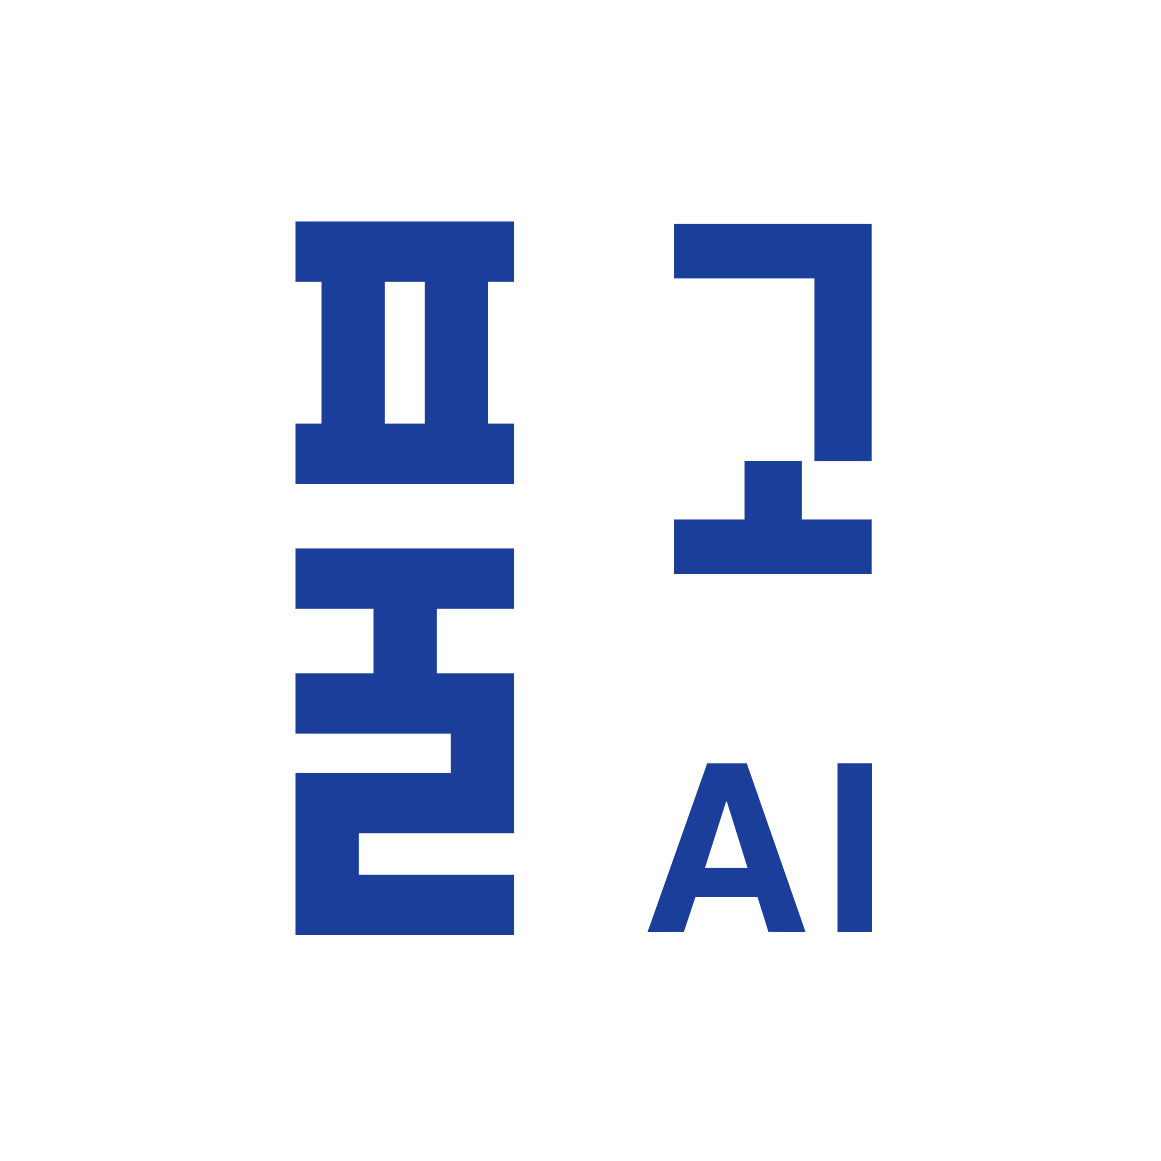
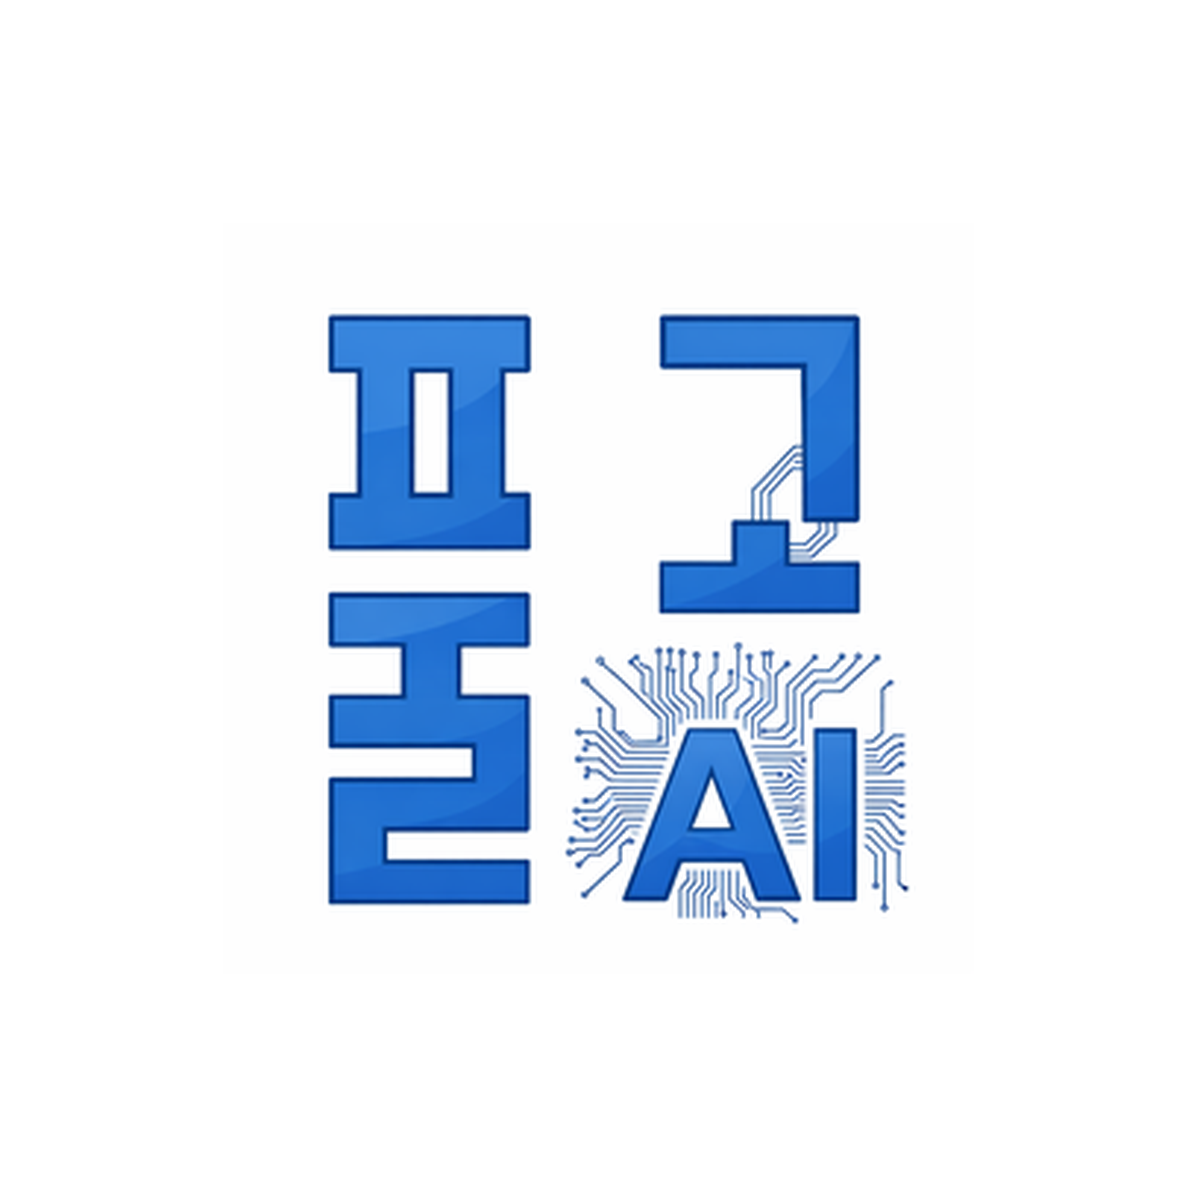
서비스 브랜드명 '풀고(Pool-go)'로 변경 및 로고/메타 애셋 전면 고도화

Changed region(s): [[0.2481, 0.186, 0.7752, 0.8062]]

diff --git a/index.html b/index.html
@@ -5,12 +5,12 @@
     <meta name="viewport" content="width=device-width, initial-scale=1.0" />
     <link rel="icon" type="image/png" href="/logo.png" />
     <link rel="apple-touch-icon" href="/apple-touch-icon.png" />
-    <title>루트 | 문제집 없이 시험 준비</title>
+    <title>풀고 | 문제집 없이 시험 준비</title>
     
     <!-- SEO & Social Sharing -->
     <meta name="description" content="중고등 내신 및 수능 대비 AI 문제은행 - 풀고 AI" />
     <meta property="og:type" content="website" />
-    <meta property="og:title" content="루트 | 문제집 없이 시험 준비" />
+    <meta property="og:title" content="풀고 | 문제집 없이 시험 준비" />
     <meta property="og:description" content="중고등 내신 및 수능 대비 AI 문제은행 - 풀고 AI" />
     <meta property="og:image" content="/og-image.png" />
     <meta property="og:image:width" content="1200" />
@@ -19,7 +19,7 @@
     
     <!-- Twitter -->
     <meta name="twitter:card" content="summary_large_image" />
-    <meta name="twitter:title" content="루트 | 문제집 없이 시험 준비" />
+    <meta name="twitter:title" content="풀고 | 문제집 없이 시험 준비" />
     <meta name="twitter:description" content="중고등 내신 및 수능 대비 AI 문제은행 - 풀고 AI" />
     <meta name="twitter:image" content="/og-image.png" />
   </head>

diff --git a/src/components/layout/TopBar.tsx b/src/components/layout/TopBar.tsx
@@ -36,11 +36,15 @@ export function TopBar({
 
             <button
               onClick={() => onNavigate('landing')}
-              className="group relative flex h-11 w-11 items-center justify-center overflow-hidden rounded-2xl transition-all active:scale-95"
+              className="group relative flex h-11 w-11 items-center justify-center overflow-hidden transition-all active:scale-95"
             >
-              <div className="absolute inset-0 bg-gradient-to-br from-blue-700 to-primary opacity-90 transition-all group-hover:scale-110 group-hover:opacity-100" />
-              <div className="absolute inset-0 shadow-[inset_0_1px_2px_rgba(255,255,255,0.4)]" />
-              <Bot className="relative h-6 w-6 text-white drop-shadow-[0_2px_4px_rgba(0,0,0,0.2)] transition-transform group-hover:rotate-6" />
+              <img 
+                src="/logo_ai.png" 
+                alt="풀고 AI 로고" 
+                className="h-10 w-10 object-contain transition-transform group-hover:scale-110"
+                loading="eager"
+                decoding="async"
+              />
             </button>
           </div>
 

diff --git a/src/components/auth/PasswordRecoveryScreen.tsx b/src/components/auth/PasswordRecoveryScreen.tsx
@@ -39,7 +39,7 @@ export function PasswordRecoveryScreen({ onDone }: { onDone: () => void }) {
   return (
     <main className="min-h-screen bg-slate-50 px-4 py-10 text-slate-900 sm:px-6">
       <div className="mx-auto max-w-xl border border-slate-200 bg-white px-6 py-8 sm:px-8">
-        <p className="text-xs font-semibold uppercase tracking-[0.18em] text-slate-400">ROOT</p>
+        <p className="text-xs font-semibold uppercase tracking-[0.18em] text-slate-400">풀고</p>
         <h1 className="mt-4 text-3xl font-bold">새 비밀번호 설정</h1>
         <p className="mt-3 text-sm leading-7 text-slate-600">
           메일의 재설정 링크로 들어온 상태입니다. 새 비밀번호를 저장한 뒤 계정 화면으로 돌아갑니다.

diff --git a/src/components/auth/AuthScreen.tsx b/src/components/auth/AuthScreen.tsx
@@ -172,7 +172,7 @@ export function AuthScreen({ onSuccess = () => window.location.reload() }: { onS
                 {mode === 'sign_in' 
                   ? '내 계정으로 로그인하여 학습 기록을 관리하세요.' 
                   : mode === 'sign_up' 
-                    ? 'ROOT CBT와 함께 지능형 학습을 시작하세요.'
+                    ? '풀고 AI와 함께 지능형 학습을 시작하세요.'
                     : '가입하신 이메일을 입력하시면 재설정 링크를 보내드립니다.'}
               </p>
             </div>

diff --git a/src/hooks/useExamSession.ts b/src/hooks/useExamSession.ts
@@ -30,7 +30,7 @@ export function useExamSession(
   onSyncWrong: (next: WrongNote[]) => void
 ) {
   const [questions, setQuestions] = useState<ExamQuestion[]>([]);
-  const [examTitle, setExamTitle] = useState('ROOT CBT');
+  const [examTitle, setExamTitle] = useState('풀고 AI');
   const [responses, setResponses] = useState<Record<number, string>>({});
   const [currentQuestionIndex, setCurrentQuestionIndex] = useState(1);
   const [generatedQuestionMode, setGeneratedQuestionMode] = useState<GeneratedQuestionMode>('mixed');

diff --git a/server/index.ts b/server/index.ts
@@ -109,5 +109,5 @@ app.post('/api/ai/segment-exam', async (req, res) => {
 });
 
 app.listen(port, '0.0.0.0', () => {
-  console.log(`ROOT API server listening on http://0.0.0.0:${port} (also accessible via http://127.0.0.1:${port})`);
+  console.log(`Pool-go API server listening on http://0.0.0.0:${port} (also accessible via http://127.0.0.1:${port})`);
 });

diff --git a/scratch/generate_meta_assets.py b/scratch/generate_meta_assets.py
@@ -1,0 +1,49 @@
+from PIL import Image
+import os
+
+# 경로 설정
+root_dir = r'c:\Users\dykim\OneDrive\바탕 화면\문서저장소\작업\ROOT'
+logo_ai_path = os.path.join(root_dir, 'public', 'logo_ai.png')
+
+def pad_and_save(input_path, output_path, canvas_size, padding_ratio=1.6):
+    try:
+        # 로고 불러오기
+        logo = Image.open(input_path)
+        
+        # 투명 배경인 경우 흰색 배경으로 합성 (SNS/아이콘용으로 더 안전함)
+        if logo.mode in ('RGBA', 'LA'):
+            background = Image.new('RGB', logo.size, (255, 255, 255))
+            background.paste(logo, mask=logo.split()[-1])
+            logo = background
+        else:
+            logo = logo.convert('RGB')
+
+        logo_w, logo_h = logo.size
+        
+        # 여백 포함 캔버스 크기 결정
+        current_canvas = int(max(logo_w, logo_h) * padding_ratio)
+        temp_canvas = Image.new('RGB', (current_canvas, current_canvas), (255, 255, 255))
+        
+        # 중앙 배치
+        offset = ((current_canvas - logo_w) // 2, (current_canvas - logo_h) // 2)
+        temp_canvas.paste(logo, offset)
+        
+        # 최종 사이즈로 리사이징
+        final_img = temp_canvas.resize((canvas_size, canvas_size), Image.Resampling.LANCZOS)
+        
+        # 저장
+        final_img.save(output_path, 'PNG', optimize=True)
+        print(f"Success: {output_path} ({canvas_size}x{canvas_size})")
+        
+    except Exception as e:
+        print(f"Error for {output_path}: {e}")
+
+if __name__ == "__main__":
+    # 1. Favicon용 (128x128, 적은 여백)
+    pad_and_save(logo_ai_path, os.path.join(root_dir, 'public', 'logo.png'), 128, padding_ratio=1.1)
+    
+    # 2. 애플 홈 화면 아이콘용 (180x180, 중간 여백)
+    pad_and_save(logo_ai_path, os.path.join(root_dir, 'public', 'apple-touch-icon.png'), 180, padding_ratio=1.2)
+    
+    # 3. SNS 공유용 (1200x1200px, 충분한 여백)
+    pad_and_save(logo_ai_path, os.path.join(root_dir, 'public', 'og-image.png'), 1200, padding_ratio=1.6)

diff --git a/scratch/optimize_logo.py b/scratch/optimize_logo.py
@@ -1,0 +1,40 @@
+from PIL import Image
+import os
+
+# 경로 설정
+input_path = r'C:\Users\dykim\.gemini\antigravity\brain\5a77a492-7a25-442a-bf07-56996101c706\media__1776155493401.png'
+output_path = r'c:\Users\dykim\OneDrive\바탕 화면\문서저장소\작업\ROOT\public\logo_ai.png'
+
+def optimize_logo(input_path, output_path, size=(256, 256)):
+    try:
+        if not os.path.exists(input_path):
+            print(f"Error: Input file not found at {input_path}")
+            return
+
+        # 이미지 열기
+        img = Image.open(input_path)
+        
+        # RGBA 환경 유지 (투명도)
+        if img.mode != 'RGBA':
+            img = img.convert('RGBA')
+            
+        # 리사이징 (LANCZOS 필터 사용으로 품질 최적화)
+        # Pillow 버전에 따라 Image.Resampling.LANCZOS 또는 Image.LANCZOS 사용
+        try:
+            resampling_filter = Image.Resampling.LANCZOS
+        except AttributeError:
+            resampling_filter = Image.LANCZOS
+            
+        img_resized = img.resize(size, resampling_filter)
+        
+        # 저장 (최적화 및 압축)
+        img_resized.save(output_path, 'PNG', optimize=True)
+        print(f"Success: Optimized logo saved to {output_path}")
+        print(f"Original size: {os.path.getsize(input_path) // 1024}KB")
+        print(f"Optimized size: {os.path.getsize(output_path) // 1024}KB")
+        
+    except Exception as e:
+        print(f"Error during optimization: {e}")
+
+if __name__ == "__main__":
+    optimize_logo(input_path, output_path)

diff --git a/README.md b/README.md
@@ -1,4 +1,4 @@
-# ROOT CBT App
+# Pool-go AI (formerly ROOT CBT)
 
 React/Vite 프런트엔드와 시험 생성 API가 함께 있는 프로젝트입니다.
 
